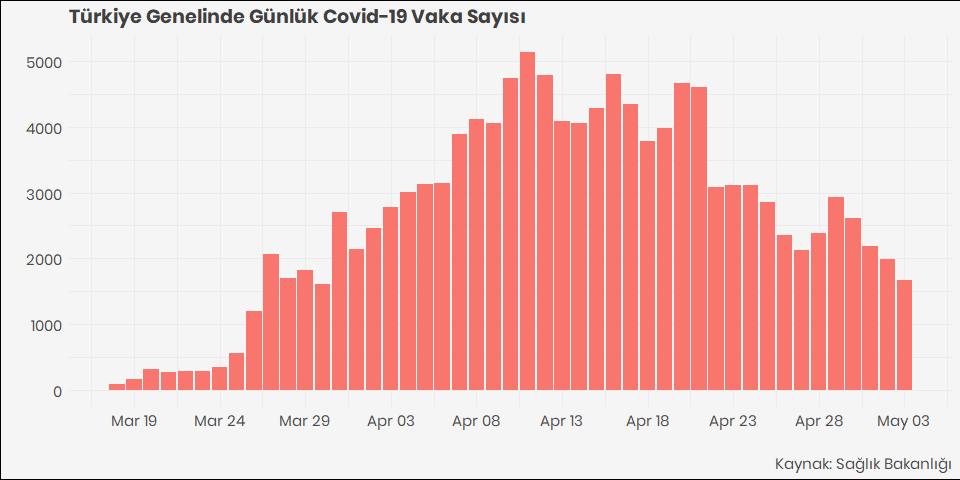
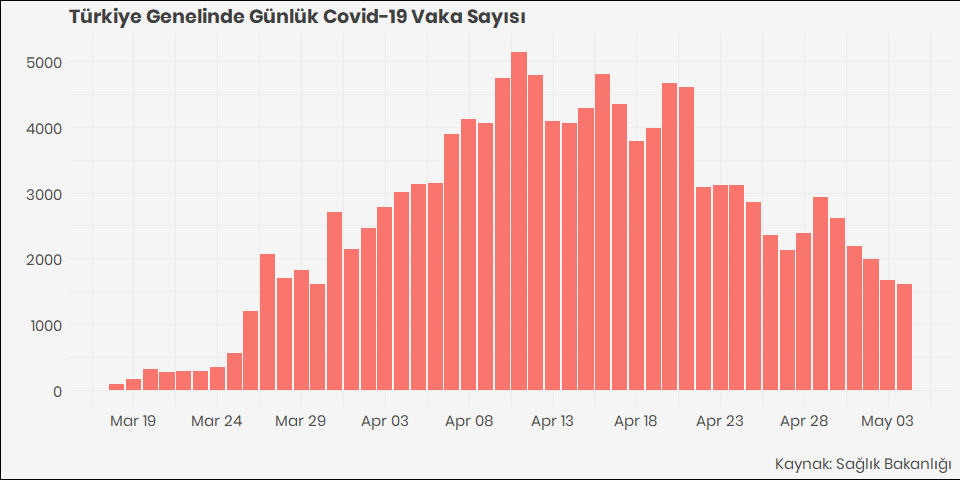
update_04_05

diff --git a/codes/kodlar.html b/codes/kodlar.html
@@ -382,7 +382,7 @@ summary {
 
 <h1 class="title toc-ignore">COVID-19 Türkiye Verileri | COVID - 19 TURKEY DATA</h1>
 <h4 class="author">Sadettin Demirel</h4>
-<h4 class="date">04 May, 2020</h4>
+<h4 class="date">05 May, 2020</h4>
 
 </div>
 
@@ -458,35 +458,6 @@ gunluk_vaka
 </tr>
 </thead>
 <tbody>
-<tr>
-<td style="text-align:left;">
-19.04.2020
-</td>
-<td style="text-align:right;">
-634277
-</td>
-<td style="text-align:right;">
-86306
-</td>
-<td style="text-align:right;">
-2017
-</td>
-<td style="text-align:right;">
-1922
-</td>
-<td style="text-align:right;">
-1031
-</td>
-<td style="text-align:right;">
-11976
-</td>
-<td style="text-align:right;">
-127
-</td>
-<td style="text-align:right;">
-3977
-</td>
-</tr>
 <tr>
 <td style="text-align:left;">
 20.04.2020
@@ -891,6 +862,35 @@ gunluk_vaka
 </td>
 <td style="text-align:right;">
 1670
+</td>
+</tr>
+<tr>
+<td style="text-align:left;">
+04.05.2020
+</td>
+<td style="text-align:right;">
+1171138
+</td>
+<td style="text-align:right;">
+127659
+</td>
+<td style="text-align:right;">
+3461
+</td>
+<td style="text-align:right;">
+1384
+</td>
+<td style="text-align:right;">
+727
+</td>
+<td style="text-align:right;">
+68166
+</td>
+<td style="text-align:right;">
+64
+</td>
+<td style="text-align:right;">
+1614
 </td>
 </tr>
 </tbody>

diff --git a/README.md b/README.md
@@ -100,64 +100,6 @@ gunluk\_vaka
 
 <td style="text-align:left;">
 
-14.04.2020
-
-</td>
-
-<td style="text-align:right;">
-
-443626
-
-</td>
-
-<td style="text-align:right;">
-
-65111
-
-</td>
-
-<td style="text-align:right;">
-
-1403
-
-</td>
-
-<td style="text-align:right;">
-
-1809
-
-</td>
-
-<td style="text-align:right;">
-
-1063
-
-</td>
-
-<td style="text-align:right;">
-
-4799
-
-</td>
-
-<td style="text-align:right;">
-
-107
-
-</td>
-
-<td style="text-align:right;">
-
-4062
-
-</td>
-
-</tr>
-
-<tr>
-
-<td style="text-align:left;">
-
 15.04.2020
 
 </td>
@@ -1251,6 +1193,64 @@ gunluk\_vaka
 <td style="text-align:right;">
 
 1670
+
+</td>
+
+</tr>
+
+<tr>
+
+<td style="text-align:left;">
+
+04.05.2020
+
+</td>
+
+<td style="text-align:right;">
+
+1171138
+
+</td>
+
+<td style="text-align:right;">
+
+127659
+
+</td>
+
+<td style="text-align:right;">
+
+3461
+
+</td>
+
+<td style="text-align:right;">
+
+1384
+
+</td>
+
+<td style="text-align:right;">
+
+727
+
+</td>
+
+<td style="text-align:right;">
+
+68166
+
+</td>
+
+<td style="text-align:right;">
+
+64
+
+</td>
+
+<td style="text-align:right;">
+
+1614
 
 </td>
 
